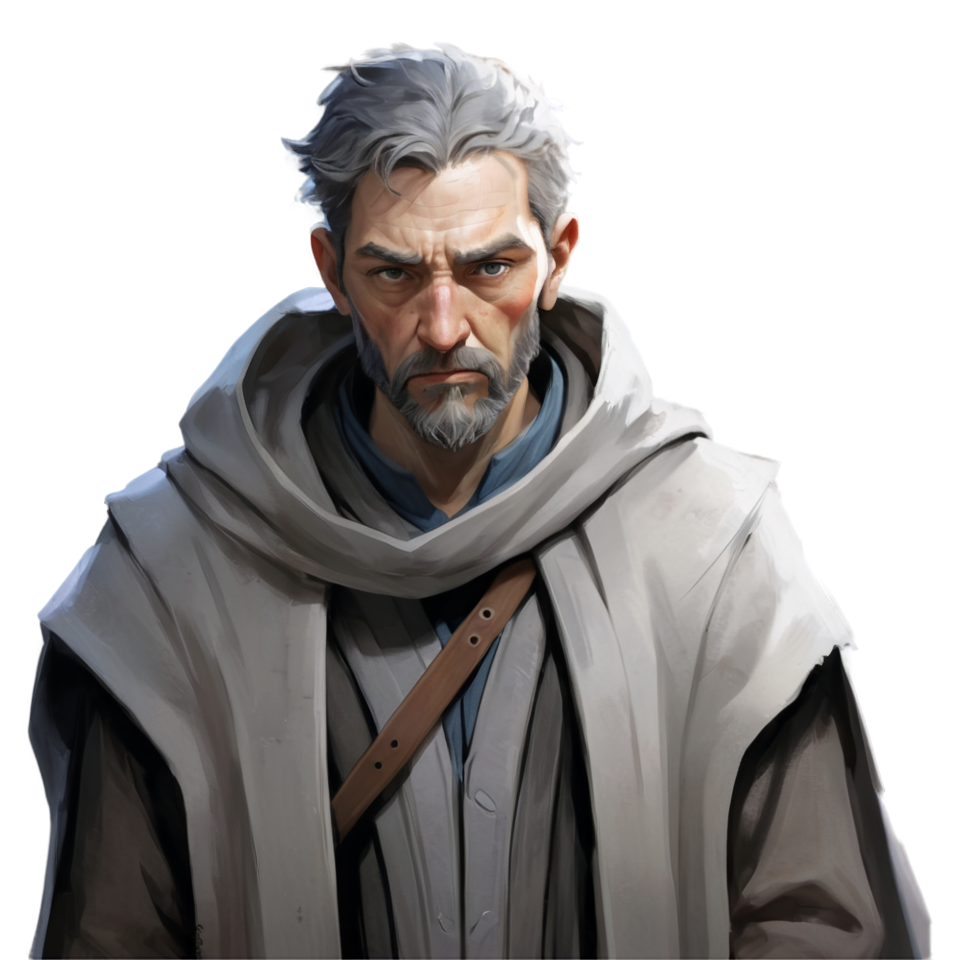
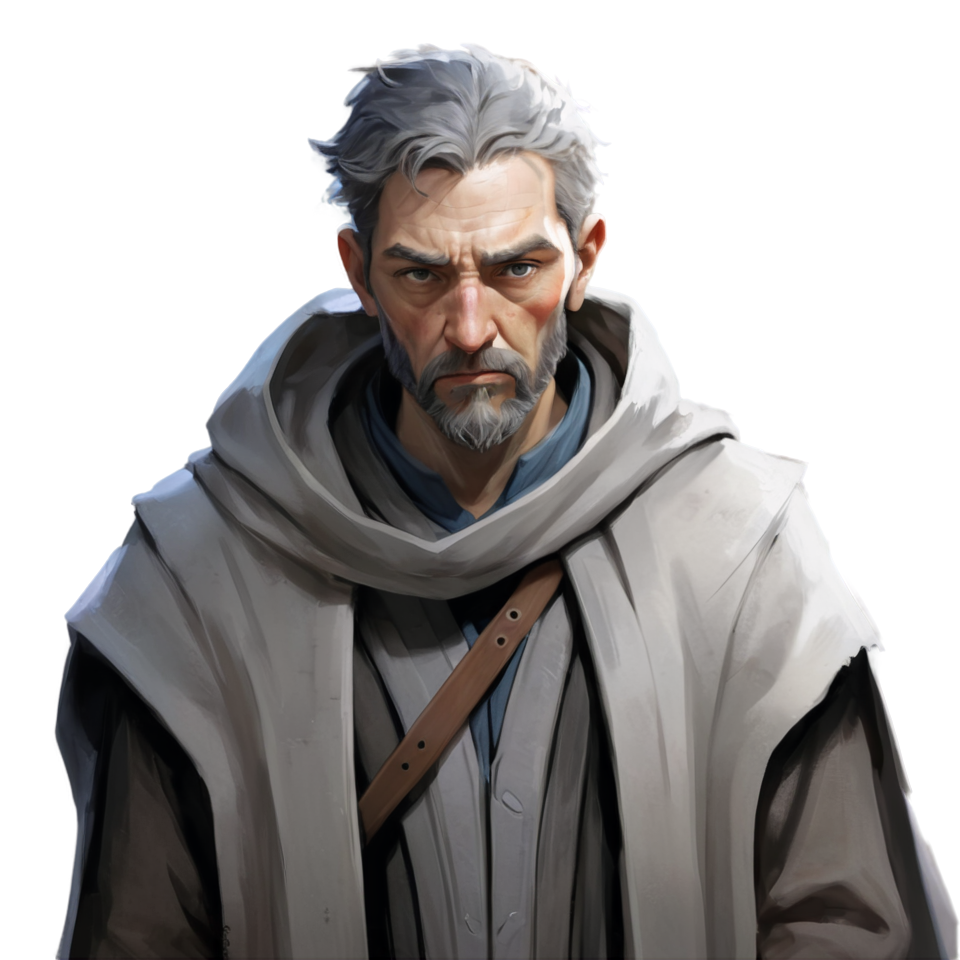
Changes to be committed: 	modified:   assets/images/portraits/char0.png 	modified:   assets/images/portraits/char1.png 	modified:   assets/images/portraits/char2.png 	modified:   assets/images/portraits/char4.png 	modified:   assets/images/portraits/char5.png 	modified:   assets/images/portraits/cha
TODO: Los portraits tienen que ser cambiados para respetar la idea de colores. Se implementará un sistema de base + clothes png usando ColorFiltered con BlendMode.modulate.

diff --git a/lib/main.dart b/lib/main.dart
@@ -915,38 +915,46 @@ class _SoloSetupOverlayState extends State<SoloSetupOverlay> {
           ),
         ],
       ),
+      clipBehavior: Clip.antiAlias,
       child: Stack(
         fit: StackFit.expand,
         children: [
           // Imagen del personaje (PNG) con respaldo de Icono
-          Center(
-            child: Image.asset(
-              'assets/images/portraits/${char.id}.png',
-              fit: BoxFit.contain,
-              errorBuilder: (context, error, stackTrace) => Icon(
+          Image.asset(
+            'assets/images/portraits/${char.id}.png',
+            fit: BoxFit.cover,
+            errorBuilder: (context, error, stackTrace) => Center(
+              child: Icon(
                 char.icon,
                 size: 280,
                 color: _customColor.withValues(alpha: 0.3),
               ),
             ),
           ),
+          // Etiqueta de nombre Vertical (Estilo Editorial)
           Positioned(
-            bottom: 60,
-            left: -20,
-            child: Transform.rotate(
-              angle: -0.06,
+            left: 0,
+            bottom: 40,
+            child: RotatedBox(
+              quarterTurns: 3,
               child: Container(
-                padding: const EdgeInsets.symmetric(
-                  horizontal: 60,
-                  vertical: 15,
+                padding: const EdgeInsets.symmetric(horizontal: 20, vertical: 4),
+                decoration: BoxDecoration(
+                  color: _customColor,
+                  boxShadow: [
+                    BoxShadow(
+                      color: Colors.black.withValues(alpha: 0.3),
+                      blurRadius: 10,
+                      offset: const Offset(2, 0),
+                    ),
+                  ],
                 ),
-                color: _customColor,
                 child: Text(
                   char.displayName.toUpperCase(),
                   style: const TextStyle(
                     color: Colors.black,
-                    fontWeight: FontWeight.bold,
-                    fontSize: 28,
+                    fontWeight: FontWeight.w900,
+                    fontSize: 18,
                     letterSpacing: 4,
                   ),
                 ),
